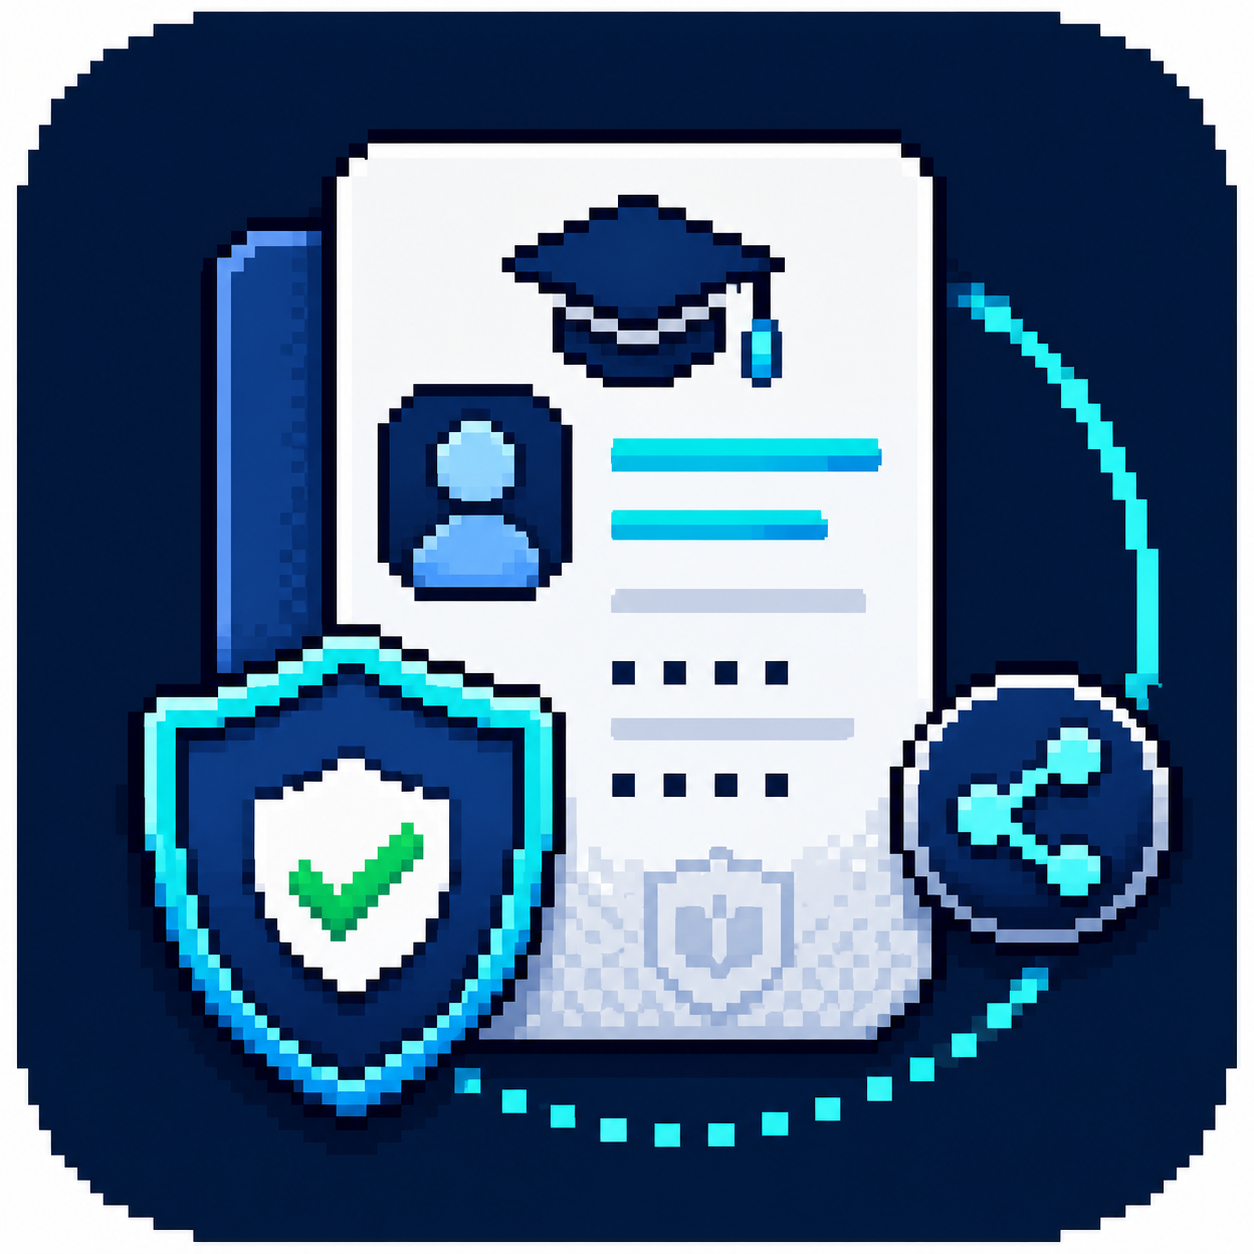
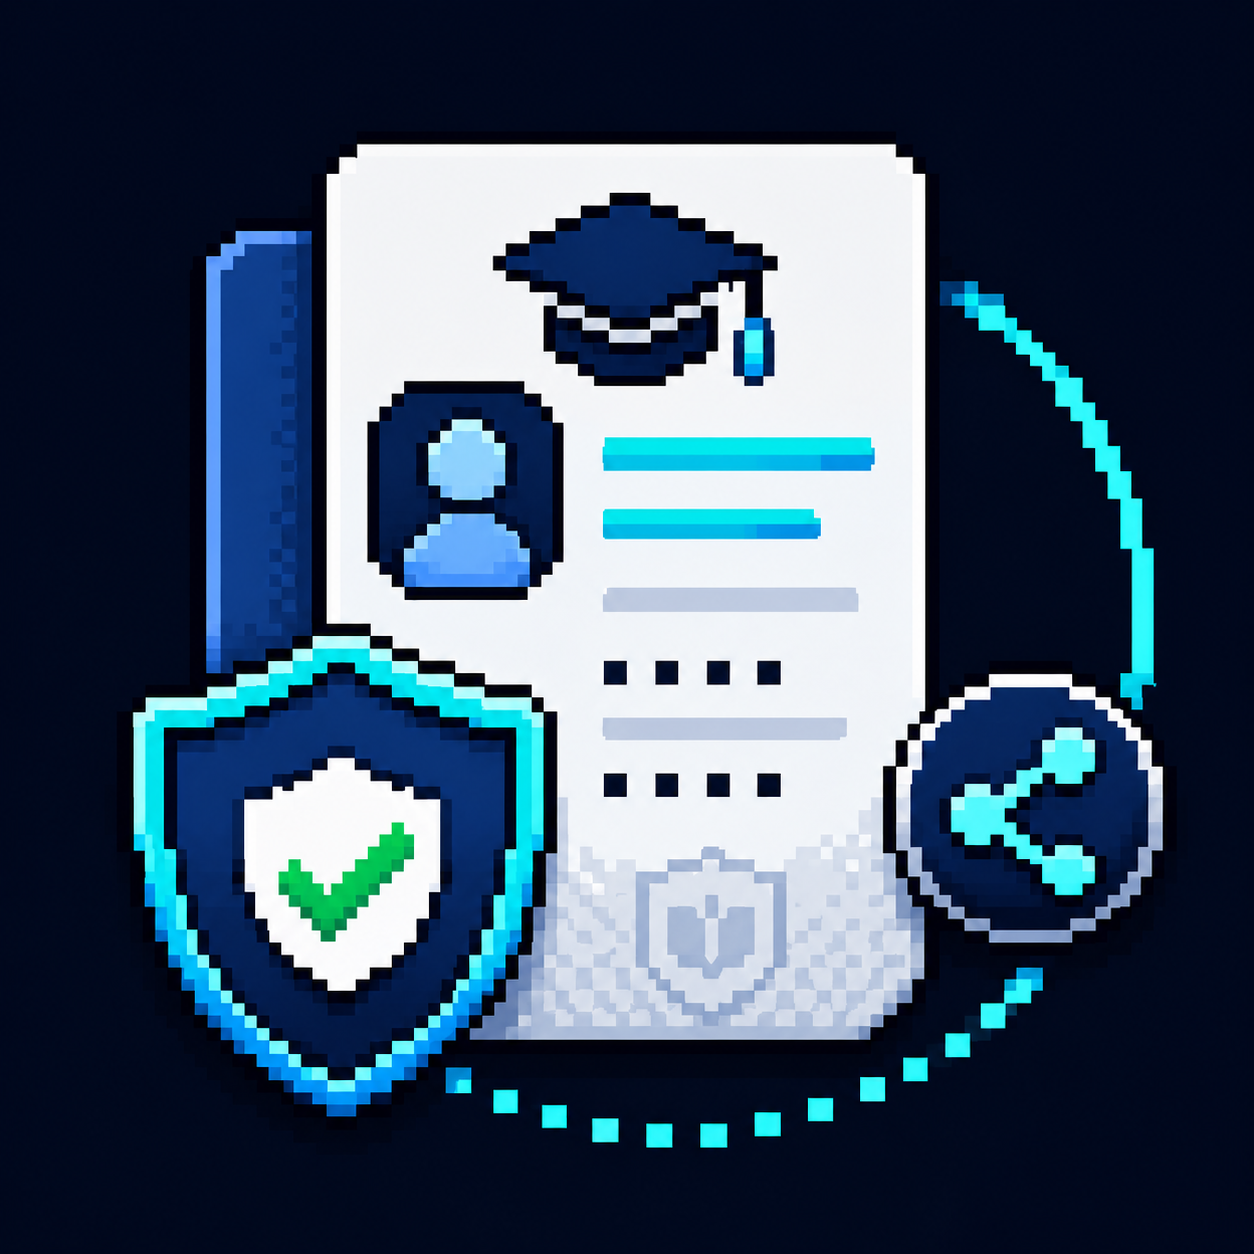
fix: use server api base for health badge

diff --git a/apps/web/app/health.test.ts b/apps/web/app/health.test.ts
@@ -1,0 +1,38 @@
+import { afterEach, describe, expect, it, vi } from "vitest";
+import { getHealth, getServerApiBaseUrl } from "./health";
+
+describe("homepage health badge", () => {
+  const originalApiBaseUrl = process.env.API_BASE_URL;
+  const originalPublicApiBaseUrl = process.env.NEXT_PUBLIC_API_BASE_URL;
+
+  afterEach(() => {
+    process.env.API_BASE_URL = originalApiBaseUrl;
+    process.env.NEXT_PUBLIC_API_BASE_URL = originalPublicApiBaseUrl;
+    vi.restoreAllMocks();
+  });
+
+  it("uses the server API base URL instead of the browser proxy path", async () => {
+    delete process.env.API_BASE_URL;
+    process.env.NEXT_PUBLIC_API_BASE_URL = "/api";
+    const fetchMock = vi.fn(async () => new Response(null, { status: 200 }));
+
+    await expect(getHealth(fetchMock as typeof fetch)).resolves.toBe("API reachable");
+
+    expect(fetchMock).toHaveBeenCalledWith("http://localhost:4000/health", { cache: "no-store" });
+  });
+
+  it("honors API_BASE_URL when configured", () => {
+    process.env.API_BASE_URL = "https://api.example.test";
+
+    expect(getServerApiBaseUrl()).toBe("https://api.example.test");
+  });
+
+  it("shows unavailable when the health request fails", async () => {
+    process.env.API_BASE_URL = "http://localhost:4000";
+    const fetchMock = vi.fn(async () => {
+      throw new Error("network unavailable");
+    });
+
+    await expect(getHealth(fetchMock as typeof fetch)).resolves.toBe("API unavailable");
+  });
+});

diff --git a/apps/web/app/health.ts b/apps/web/app/health.ts
@@ -1,0 +1,16 @@
+type FetchLike = typeof fetch;
+
+export type HealthStatus = "API reachable" | "API unavailable";
+
+export function getServerApiBaseUrl() {
+  return process.env.API_BASE_URL ?? "http://localhost:4000";
+}
+
+export async function getHealth(fetchImpl: FetchLike = fetch): Promise<HealthStatus> {
+  try {
+    const response = await fetchImpl(`${getServerApiBaseUrl()}/health`, { cache: "no-store" });
+    return response.ok ? "API reachable" : "API unavailable";
+  } catch {
+    return "API unavailable";
+  }
+}

diff --git a/apps/web/app/page.tsx b/apps/web/app/page.tsx
@@ -2,17 +2,7 @@ import { ArrowRight, FileJson, KeyRound, LockKeyhole, ShieldCheck, Upload, Walle
 import { AuthNav } from "./auth/AuthNav";
 import { BrandMark } from "../components/brand-mark";
 import { ButtonLink } from "../components/ui/button";
-
-const apiBase = process.env.NEXT_PUBLIC_API_BASE_URL ?? "/api";
-
-async function getHealth() {
-  try {
-    const response = await fetch(`${apiBase}/health`, { cache: "no-store" });
-    return response.ok ? "API reachable" : "API unavailable";
-  } catch {
-    return "API unavailable";
-  }
-}
+import { getHealth } from "./health";
 
 export default async function Home() {
   const health = await getHealth();